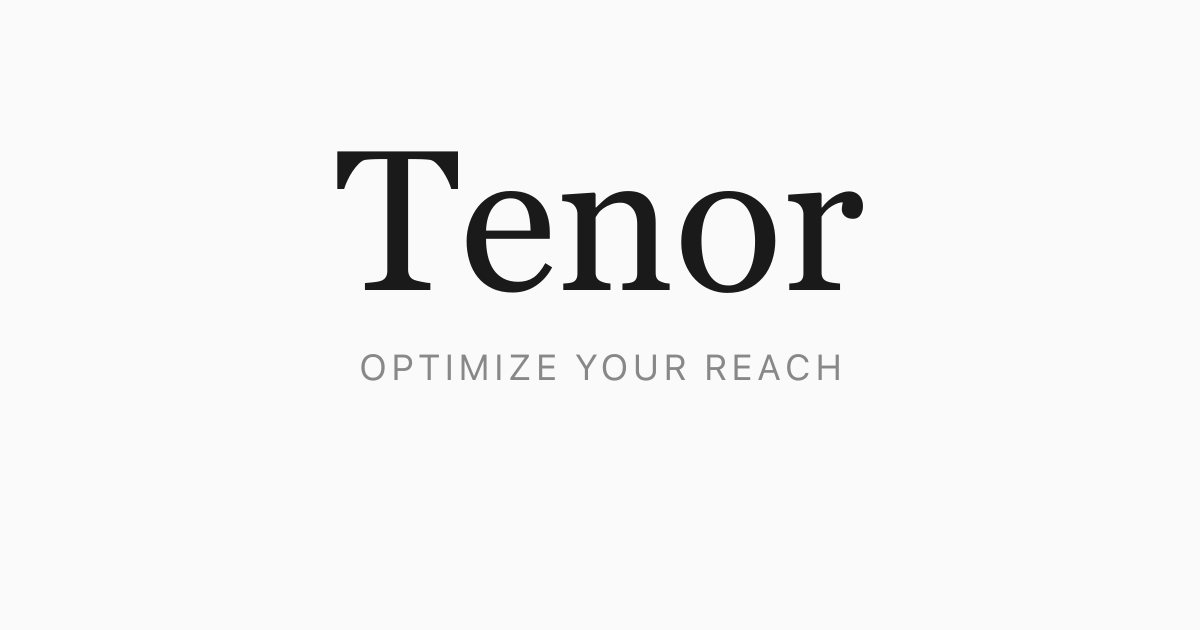
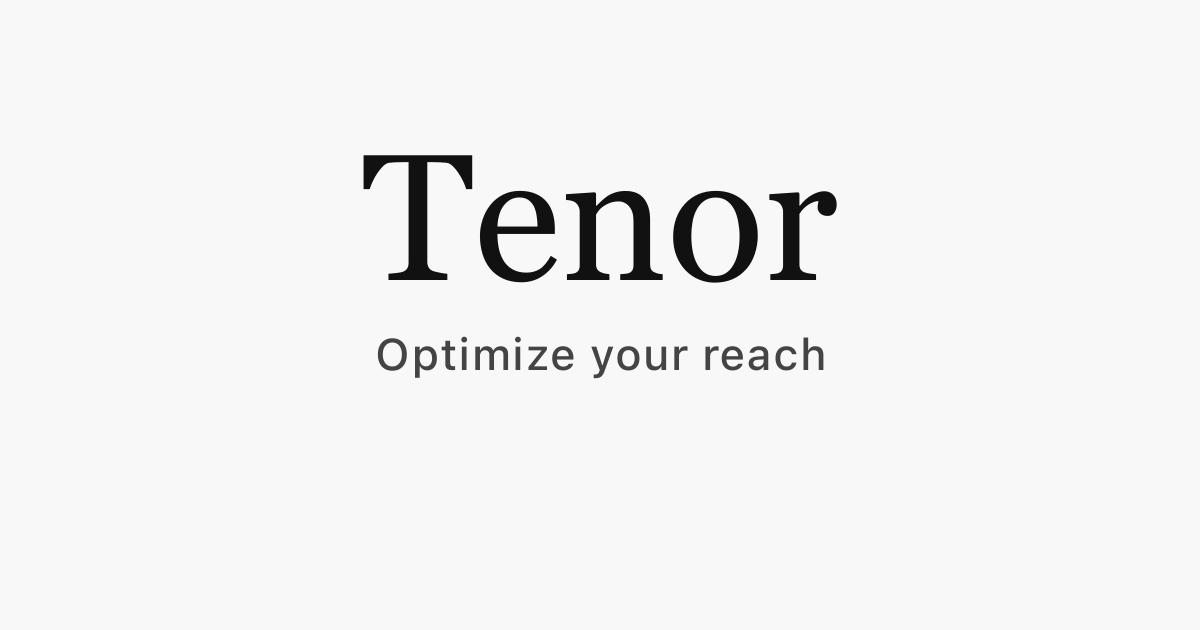
Make OG tagline larger and more readable

Changed region(s): [[0.2775, 0.2413, 0.74, 0.4825], [0.2775, 0.5429, 0.7092, 0.6032]]

diff --git a/scripts/generate-icons.js b/scripts/generate-icons.js
@@ -20,9 +20,9 @@ const splashSvg = `
 // OG Image (1200x630)
 const ogImageSvg = `
 <svg width="1200" height="630" viewBox="0 0 1200 630" xmlns="http://www.w3.org/2000/svg">
-  <rect width="1200" height="630" fill="#fafafa"/>
-  <text x="600" y="290" text-anchor="middle" font-family="Georgia, 'Times New Roman', serif" font-size="200" font-weight="400" fill="#1a1a1a">Tenor</text>
-  <text x="600" y="380" text-anchor="middle" font-family="system-ui, -apple-system, sans-serif" font-size="36" font-weight="400" letter-spacing="0.15em" fill="#888888">OPTIMIZE YOUR REACH</text>
+  <rect width="1200" height="630" fill="#f8f8f8"/>
+  <text x="600" y="280" text-anchor="middle" font-family="Georgia, 'Times New Roman', serif" font-size="180" font-weight="400" fill="#111111">Tenor</text>
+  <text x="600" y="370" text-anchor="middle" font-family="system-ui, -apple-system, sans-serif" font-size="44" font-weight="500" letter-spacing="0.08em" fill="#444444">Optimize your reach</text>
 </svg>
 `;
 
